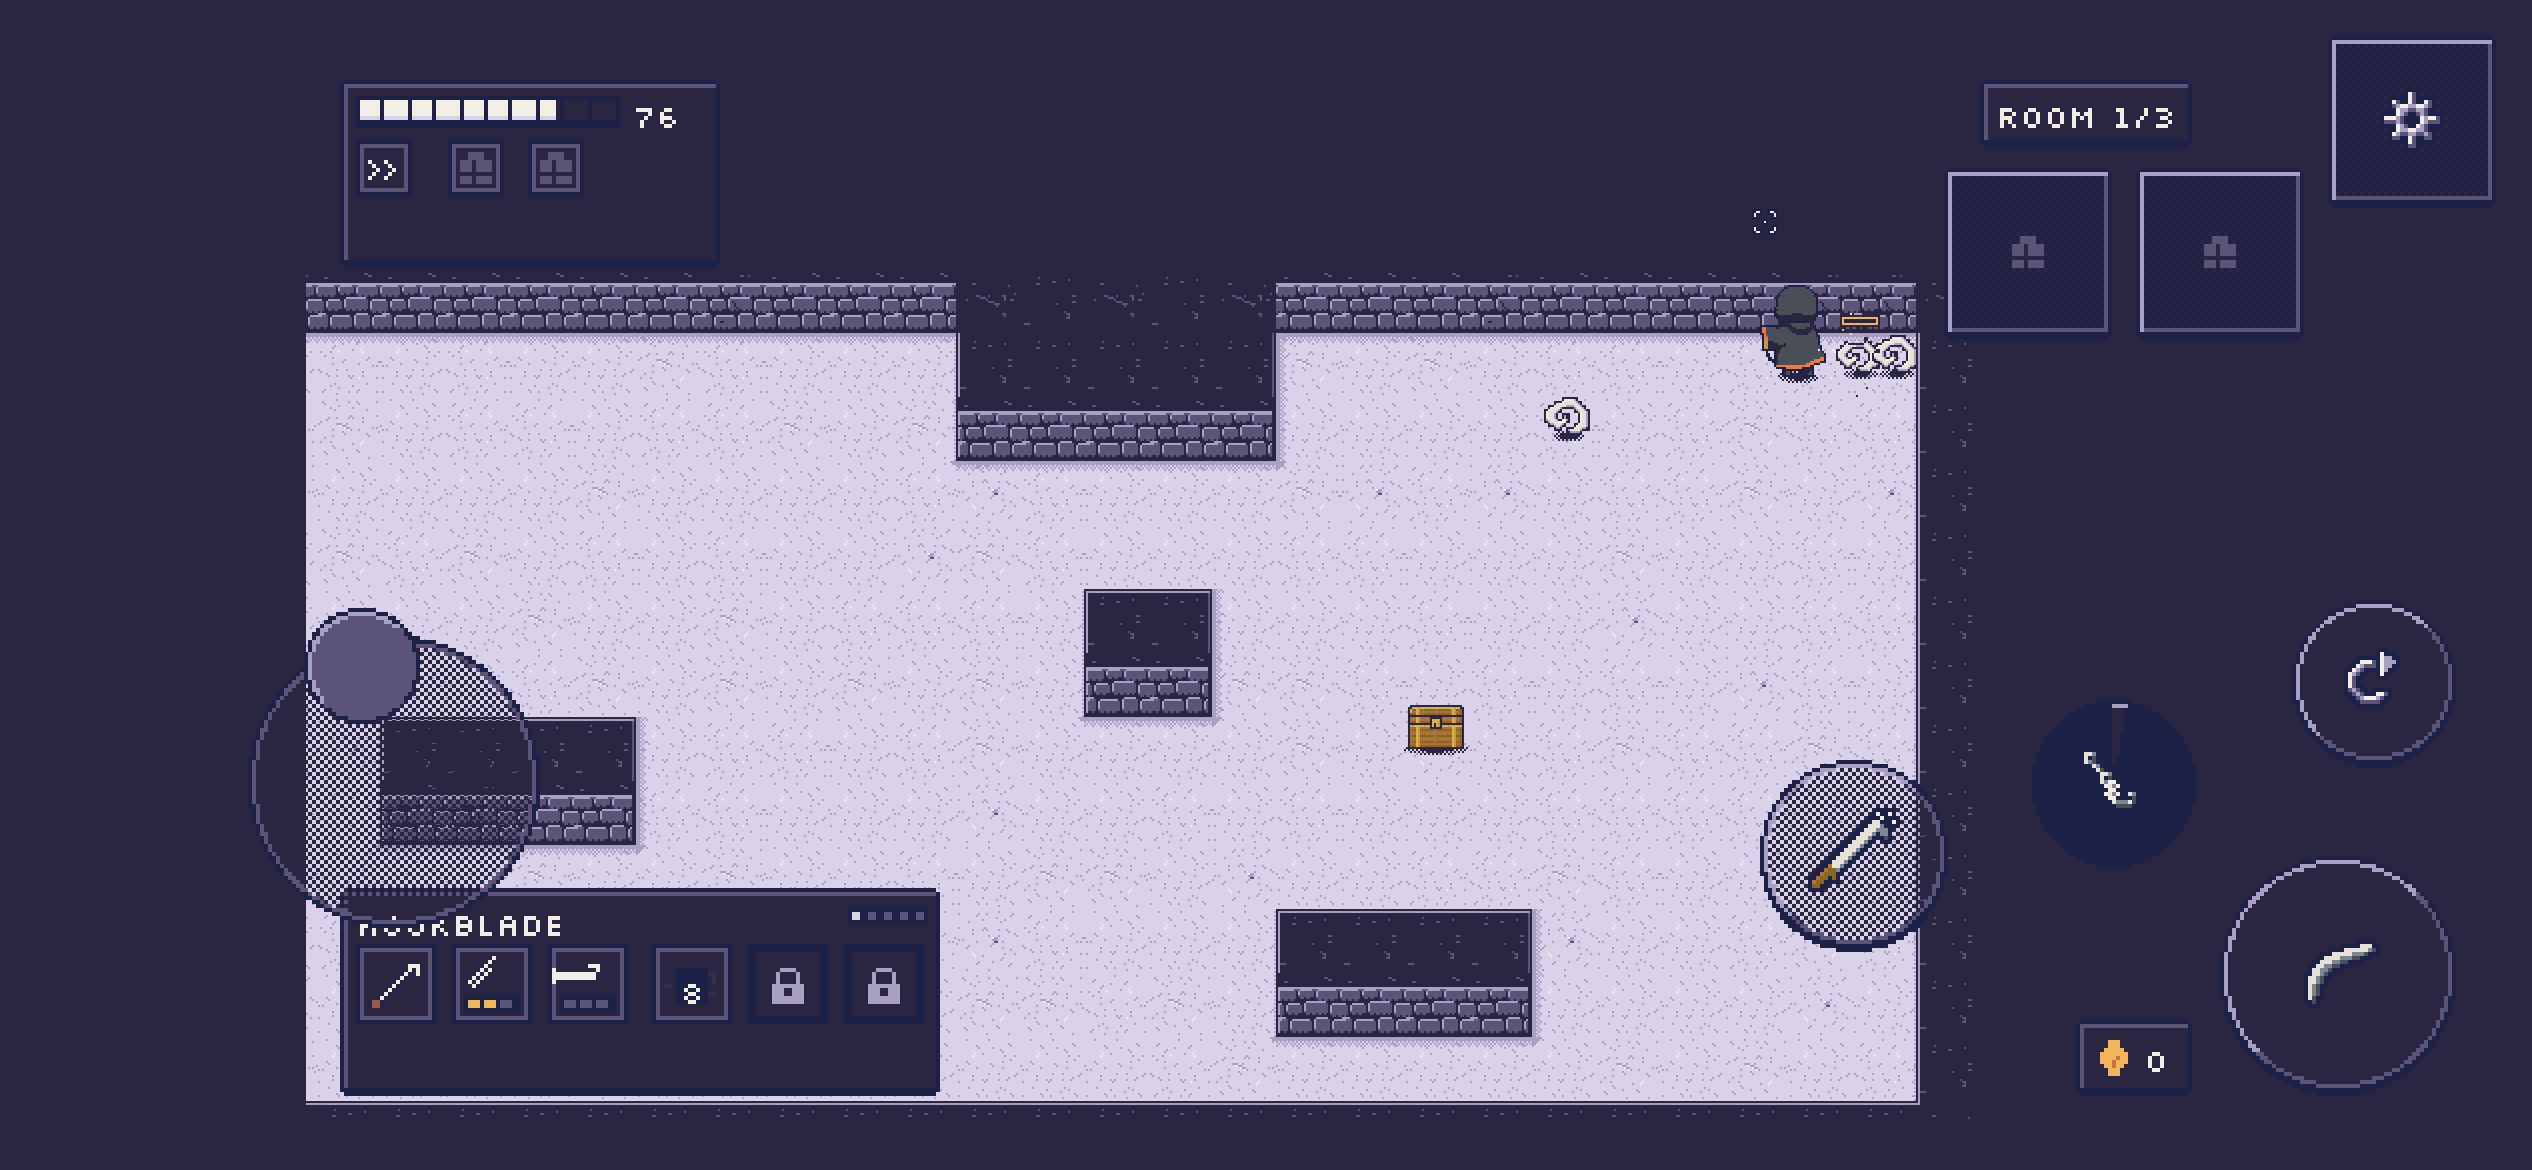
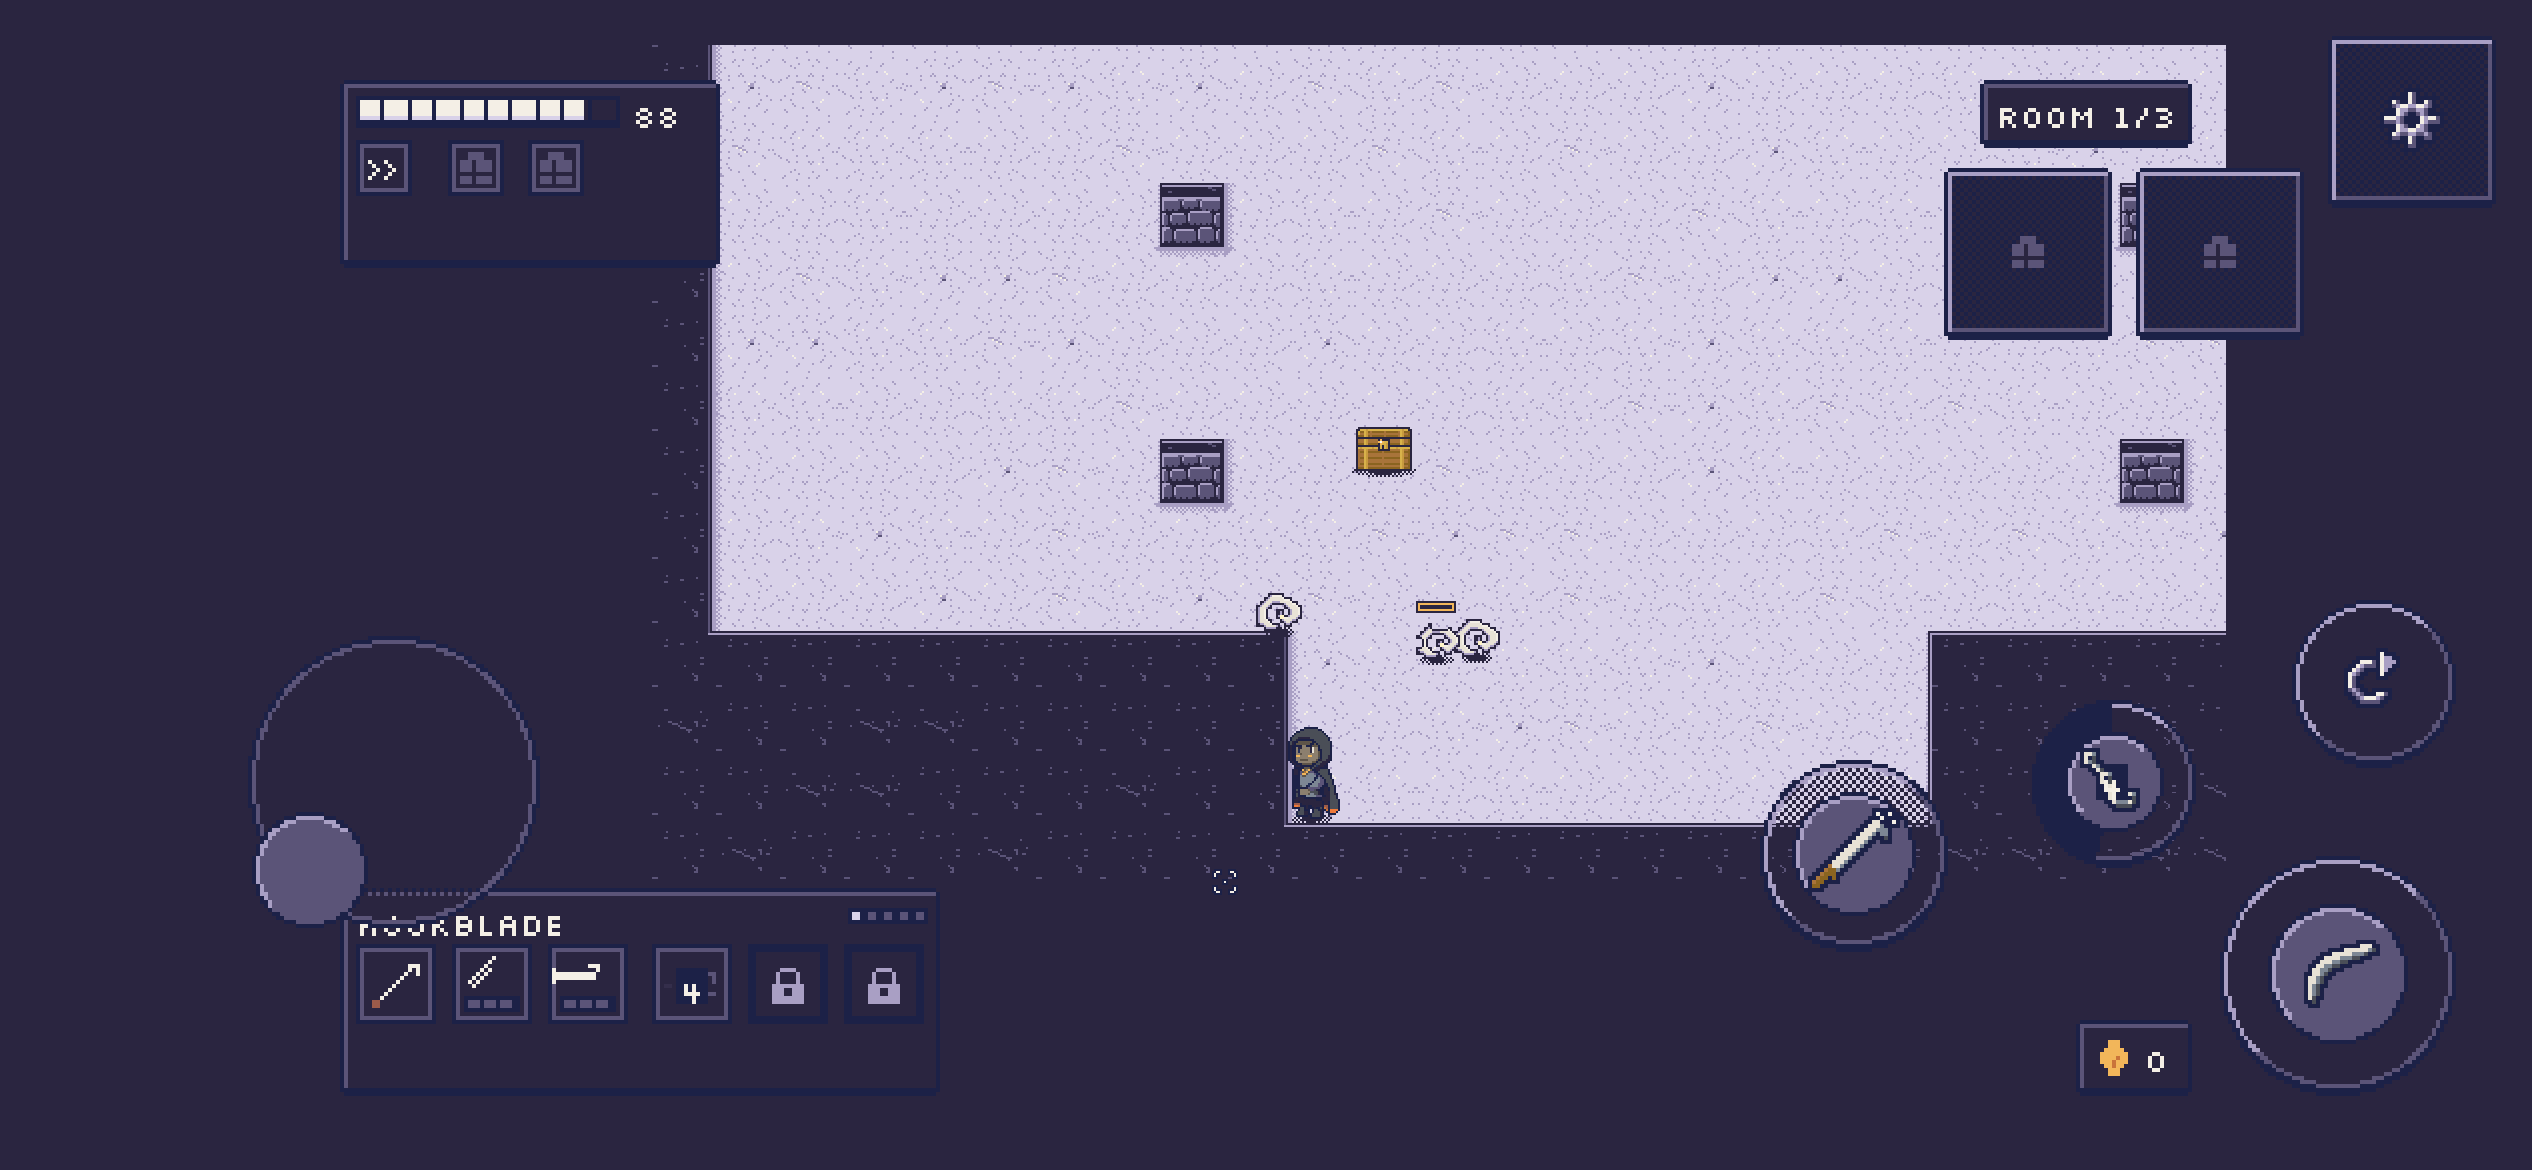
Touch: taps attack where the Kindled faces, attack buttons as sticks, the canvas refit every frame
From David's phone playtest (2026-10-21):
- Standing still, a tap attacked at whatever aim a dragged attack or a lock
  left behind. The aim with no button dragged is now the stick's direction,
  or standing still the Kindled's facing (the stick's last direction,
  TouchInput.facing), soft-locked as before.
- LIGHT, HEAVY and the abilities read as little sticks: their glyph sits on
  a raised knob (the stick's knob look) that follows a holding finger, so
  dragging to aim can be seen and found (TouchInput.knobOffset).
- The game was pushed down and cut off at the bottom on an iPhone: a resize
  during rotation can report the old upright size. The canvas fit now runs
  every frame (it acts only on a change), and the canvas sits top left, so
  a page box taller than the window leaves its spare room below.

Claude-Session: https://claude.ai/code/session_01AQ7MDAxUWeFxm5aoEn2ocb

diff --git a/apps/client/src/game/touchInput.ts b/apps/client/src/game/touchInput.ts
@@ -51,6 +51,12 @@ export class TouchInput {
   private heavyLatched = false;
   /** The aim of a dragged button let go since the last sample: the tick it fires on aims there. */
   private releaseAim: number | null = null;
+  /**
+   * The Kindled's facing on touch: the stick's last direction (radians, screen axes), kept while standing still. A tap
+   * fires this way (soft-locked), never at a stale aim a dragged attack or a lock left behind (David's playtest,
+   * 2026-10-21). Null until the stick has moved.
+   */
+  facing: number | null = null;
 
   constructor(public layout: TouchLayout) {}
 
@@ -156,6 +162,26 @@ export class TouchInput {
     return false;
   }
 
+  /**
+   * Where an aiming button's knob sits while a finger holds it (UI px from the button's centre): toward the finger,
+   * clamped so the knob of radius `knobR` stays inside the button; null while it isn't held. The attack buttons read as
+   * little sticks (David's playtest, 2026-10-21).
+   */
+  knobOffset(id: TouchControlId, knobR: number): Pt | null {
+    if (!AIMING.has(id)) return null;
+    for (const f of this.fingers.values())
+      if (f.kind === 'control' && f.id === id) {
+        const c = this.layout.controls.find((k) => k.id === id);
+        if (!c) return null;
+        const dx = f.at.x - f.centre.x;
+        const dy = f.at.y - f.centre.y;
+        const max = Math.max(0, c.size / 2 - knobR - 1);
+        const d = Math.hypot(dx, dy);
+        return d <= max || d === 0 ? { x: dx, y: dy } : { x: (dx / d) * max, y: (dy / d) * max };
+      }
+    return null;
+  }
+
   /** The aim of a button being dragged off (radians, screen axes), or null. */
   dragAim(): number | null {
     for (const f of this.fingers.values()) if (f.kind === 'control' && f.dragged) return this.dragAngle(f);
@@ -198,9 +224,12 @@ export interface TouchTick {
 /**
  * Aim by button (GAME DESIGN, controls.md §6): a button dragged off aims in
  * the drag's direction (the sampler quantizes it like the pad's right stick);
- * with none dragged the aim is the pad's centred-stick rule, the stick's
- * direction snapped onto an enemy within `softLockDeg`; standing still keeps
- * the previous aim (null), a lock on a Husk that is gone lets go.
+ * with none dragged the aim is the stick's direction snapped onto an enemy
+ * within `softLockDeg`, and standing still the Kindled's facing (the stick's
+ * last direction, `TouchInput.facing`) snapped the same way, so a tap always
+ * attacks where the Kindled moves or faces, never at an aim a drag or a lock
+ * left behind (David's playtest, 2026-10-21). Before the stick has moved the
+ * previous aim is kept (null); a lock on a Husk that is gone lets go.
  */
 export function touchSample(
   input: TouchInput,
@@ -213,9 +242,12 @@ export function touchSample(
   const stick = input.stick();
   const move = stick ? stick.vector : null;
   const moving = move !== null && Math.hypot(move.x, move.y) > deadzone;
+  if (moving) input.facing = Math.atan2(move.y, move.x);
   if (aim !== null) return { move, presses, heavy, aim, lockTarget: -1 };
-  if (moving) {
-    const lock = softLockPick(Math.atan2(move.y, move.x), enemies, softLockDeg);
+  // No button dragged: the move direction, or standing still the facing (the stick's last direction), soft-locked.
+  const toward = moving ? Math.atan2(move.y, move.x) : input.facing;
+  if (toward !== null) {
+    const lock = softLockPick(toward, enemies, softLockDeg);
     return { move, presses, heavy, aim: lock.angle, lockTarget: lock.target?.id ?? -1 };
   }
   const gone = lockTargetId >= 0 && !enemies.some((e) => e.id === lockTargetId);

diff --git a/apps/client/src/game/touchInput.test.ts b/apps/client/src/game/touchInput.test.ts
@@ -148,7 +148,47 @@ describe('touch input: the aim', () => {
     expect(release.aim).toBeCloseTo(Math.PI / 2);
   });
 
-  it('standing still keeps the previous aim; a lock on a Husk that is gone lets go', () => {
+  it("standing still, a tap attacks where the Kindled faces (the stick's last direction), not at a dragged attack's aim (David, 2026-10-21)", () => {
+    const t = new TouchInput(layout);
+    // Walk down, then let go of the stick.
+    t.down(1, 60, 100, 0, world);
+    t.move(1, 60, 160);
+    touchSample(t, [], 20, DEADZONE);
+    t.up(1, 60, 160, 500);
+    expect(t.facing).toBeCloseTo(Math.PI / 2);
+    // A dragged LIGHT up and to the left fires there...
+    const light = at('light');
+    t.down(2, light.cx, light.cy, 600, world);
+    t.move(2, light.cx - 50, light.cy - 50);
+    t.up(2, light.cx - 50, light.cy - 50, 800);
+    expect(touchSample(t, [], 20, DEADZONE).aim).toBeCloseTo((-3 * Math.PI) / 4);
+    // ...and the next tap, standing still, goes the way the Kindled faces, soft-locked as ever.
+    t.down(3, light.cx, light.cy, 1000, world);
+    t.up(3, light.cx, light.cy, 1050);
+    const tap = touchSample(t, [], 20, DEADZONE);
+    expect([...tap.presses]).toEqual(['light']);
+    expect(tap.aim).toBeCloseTo(Math.PI / 2);
+    expect(touchSample(t, [{ id: 3, dx: 15, dy: 100 }], 20, DEADZONE).lockTarget).toBe(3);
+  });
+
+  it("the attack buttons' knob follows the finger inside the button, and rests when let go", () => {
+    const t = new TouchInput(layout);
+    const light = at('light');
+    expect(t.knobOffset('light', 10)).toBeNull();
+    t.down(1, light.cx, light.cy, 0, world);
+    expect(t.knobOffset('light', 10)).toEqual({ x: 0, y: 0 });
+    t.move(1, light.cx + 3, light.cy);
+    expect(t.knobOffset('light', 10)).toEqual({ x: 3, y: 0 });
+    t.move(1, light.cx, light.cy + 500);
+    const far = t.knobOffset('light', 10);
+    expect(far?.x).toBeCloseTo(0);
+    expect(far?.y).toBeCloseTo(light.size / 2 - 11);
+    expect(t.knobOffset('dodge', 10)).toBeNull();
+    t.up(1, light.cx, light.cy + 500, 300);
+    expect(t.knobOffset('light', 10)).toBeNull();
+  });
+
+  it('before the stick has moved, standing still keeps the previous aim; a lock on a Husk that is gone lets go', () => {
     const t = new TouchInput(layout);
     const still = touchSample(t, enemies, 20, DEADZONE, 7);
     expect(still.aim).toBeNull();

diff --git a/apps/client/src/ui/touchControls.ts b/apps/client/src/ui/touchControls.ts
@@ -85,6 +85,9 @@ function glyphFor(id: TouchControlId): string | null {
   }
 }
 
+/** The buttons drawn as little sticks: their glyph on a knob that follows a dragging finger (they aim by drag). */
+const STICK_BUTTONS: ReadonlySet<TouchControlId> = new Set(['light', 'heavy', 'ability1', 'ability2', 'ability3']);
+
 /** The disc pixel sets by radius, made once. */
 const discCache = new Map<number, Px[]>();
 const discOf = (r: number): Px[] => {
@@ -394,7 +397,20 @@ export class TouchControls {
     // LIGHT and HEAVY on a big button draw ART's 24 px cell (#135); everything else the 16 px one.
     const large = cell !== null && (TOUCH_GLYPH_LARGE_CELLS as readonly string[]).includes(cell) && c.size >= TOUCH.glyphLargeMinUiPx;
     const gs = large ? 24 : G;
-    if (cell) this.glyph(c.id, large ? TOUCH_GLYPH_LARGE_TEXTURE : TOUCH_GLYPH_TEXTURE, cell)?.setPosition(cx - gs / 2, cy - gs / 2);
+    // The attack and ability buttons are little sticks (David's playtest, 2026-10-21): their glyph sits on a raised
+    // knob, the stick's knob in look, that follows the finger while it is held, so a drag to aim can be seen and found.
+    let gx = cx;
+    let gy = cy;
+    if (STICK_BUTTONS.has(c.id)) {
+      const kr = Math.max(Math.ceil(gs / 2) + 3, Math.round(c.size * 0.28));
+      const off = this.input.knobOffset(c.id, kr) ?? { x: 0, y: 0 };
+      gx = cx + Math.round(off.x);
+      gy = cy + Math.round(off.y);
+      plot(g, discOf(kr - 1), gx, gy, Palette.uiBevel);
+      plot(g, halfOf(ringOf(kr - 1), true), gx, gy, Palette.uiBevelLight);
+      plot(g, ringOf(kr), gx, gy, Palette.uiOutline);
+    }
+    if (cell) this.glyph(c.id, large ? TOUCH_GLYPH_LARGE_TEXTURE : TOUCH_GLYPH_TEXTURE, cell)?.setPosition(gx - gs / 2, gy - gs / 2);
     if (cooldown > 0 && (state.seconds ?? 0) > 0) {
       const t = this.text(c.id, String(state.seconds));
       place(t, cx, cy - 3, 0.5);

diff --git a/apps/client/src/main.ts b/apps/client/src/main.ts
@@ -84,6 +84,12 @@ function startGame(): void {
   window.addEventListener('resize', () => {
     fitCanvasToWindow(game);
   });
+  // A phone turned sideways can fire its resize (or orientationchange) while the window still reports the old,
+  // upright size (iOS Safari), which left the canvas taller than the screen and the game pushed down (David's
+  // playtest, 2026-10-21). The window's size is checked again every frame; the fit only acts on a change.
+  game.events.on(Phaser.Core.Events.PRE_STEP, () => {
+    fitCanvasToWindow(game);
+  });
   // Moving the window to a display with another pixel ratio may not resize it: watch the ratio too.
   const watchRatio = (): void => {
     window.matchMedia(`(resolution: ${window.devicePixelRatio}dppx)`).addEventListener(

diff --git a/apps/client/index.html b/apps/client/index.html
@@ -58,12 +58,14 @@
         user-select: none;
         -webkit-tap-highlight-color: transparent;
       }
+      /* The canvas is the window's size (render/cameras.ts) and sits at the top left, so a page box taller than the
+         window (a phone's browser bars) leaves its spare room below, never above the game. */
       #game {
         width: 100%;
         height: 100%;
         display: flex;
-        align-items: center;
-        justify-content: center;
+        align-items: flex-start;
+        justify-content: flex-start;
       }
       #game canvas {
         image-rendering: pixelated;

diff --git a/docs/design/controls.md b/docs/design/controls.md
@@ -177,7 +177,9 @@ There is **no right stick** (GAME DESIGN: "the buttons are the aim"), no cancel 
 the stick's deflection goes through `quantizeMove` with the stick deadzone (0.2), so the roam's walk/run rule
 (`roam.walkStickMax`) applies unchanged; the buttons are presses and holds latched between ticks (§4); HEAVY is held
 from the touch down to the release (and for at least one tick, so a quick tap still charges and fires). With no
-button dragged the aim is the pad's centred-stick rule with `softlock.leftStickAngleDeg` (20°, `Controls.softLockDeg`);
+button dragged the aim is the stick's direction, or standing still the Kindled's facing (the stick's last direction,
+`TouchInput.facing`; David's playtest, 2026-10-21: a tap always attacks where the Kindled moves or faces, never at an
+aim a drag or a lock left behind), both snapped by `softlock.leftStickAngleDeg` (20°, `Controls.softLockDeg`);
 while a LIGHT, HEAVY or ability touch is dragged past `touch.aimDragCssPx` from the button's centre, the aim is the
 drag's direction, and the tick a dragged button lets go fires there. The input log records the same resolved
 actions; nothing under `packages/sim` changed.
@@ -209,7 +211,9 @@ UI px per px, LIGHT and HEAVY from the 24 px sheet (`touch-glyphs-24px.png`, #13
 `touch.glyphLargeMinUiPx` (48) across, the item slots
 the item's icon and count. Pressed: no shadow, the content 1 px down and right, the bevel's light bottom and right, never
 a colour flash. A cooldown is a solid dream-night sweep over the time left, clockwise from 12 o'clock, with whole
-seconds on top and the frame lit briefly when it is back; a locked slot shows the hollow-dusk lock. The stick
+seconds on top and the frame lit briefly when it is back; a locked slot shows the hollow-dusk lock. LIGHT, HEAVY and the abilities are little sticks
+(David's playtest, 2026-10-21): their glyph sits on a raised knob in the stick's knob look (about 56 % of the
+button), which follows a holding finger inside the button, so a drag to aim can be seen and found. The stick
 (only while held): a 2 px ring (dream-night outside, hollow-below inside) the size of its travel with the dither
 inside, and a raised knob, 40 % of the travel: hollow-below, lighter than the base, lit top-left in
 hollow-dusk, with the dream-night outline (ART on #134). While the arc's second slot is hidden (locked), HEAVY takes
